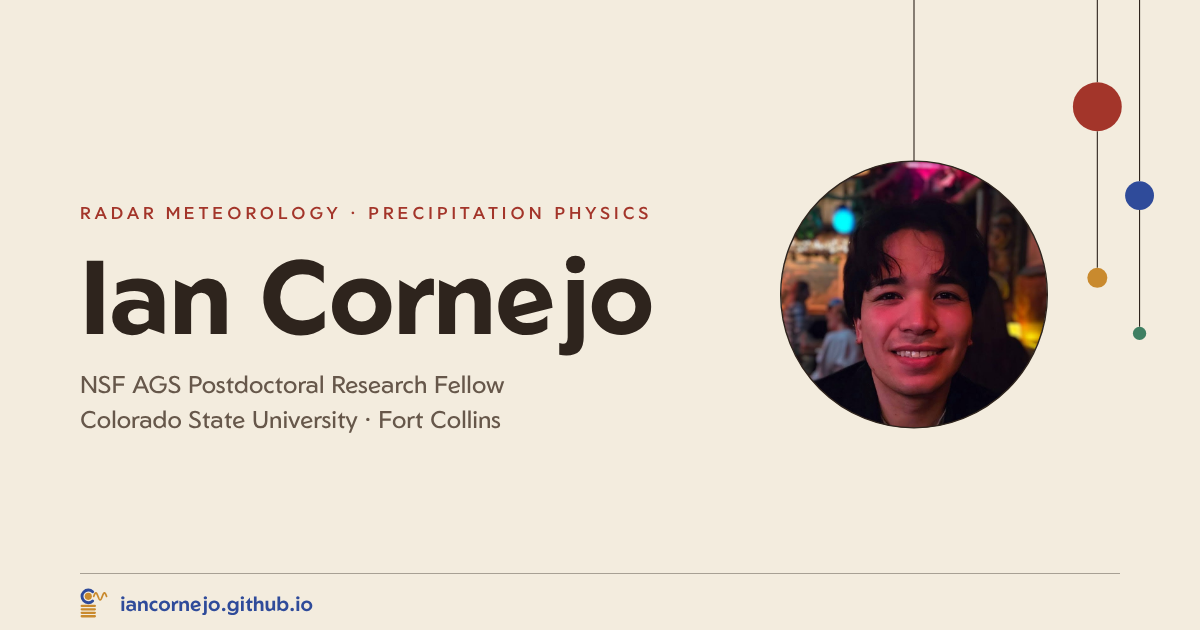
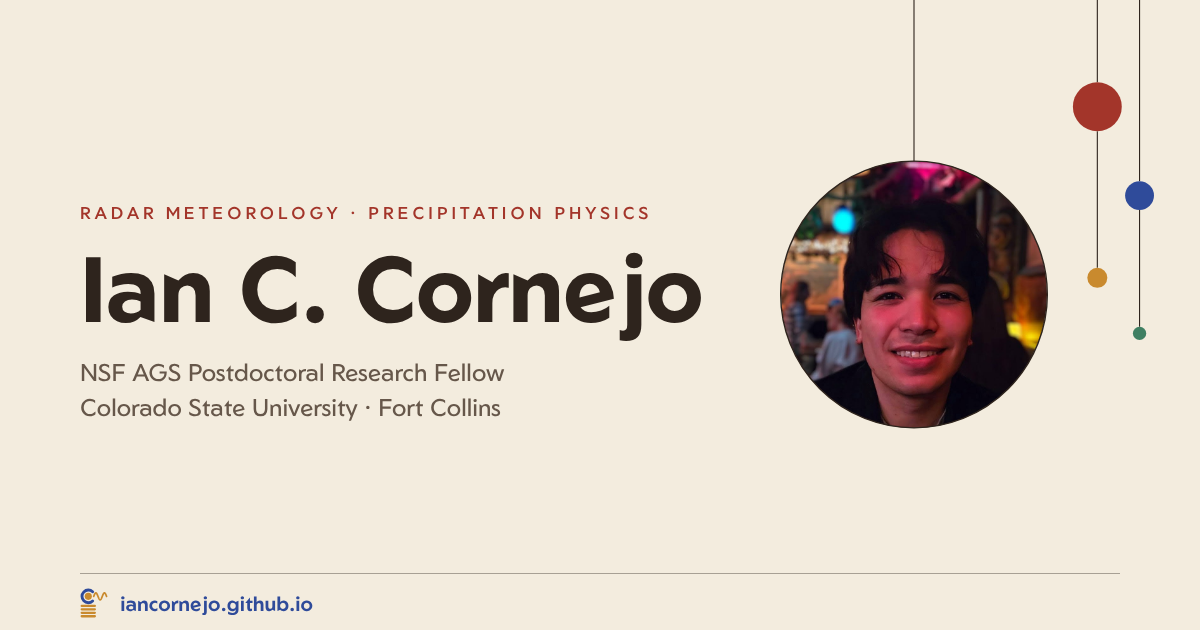
Use "Ian C. Cornejo" throughout; link the thesis and dissertation
- One name everywhere (header, hero, titles, footer, alt text, social
  image): drop profile.short_name and use profile.name
- Dissertation and MS thesis linked (PDFs on the UW AOS journal site):
  new section on the Publications page, linked titles in the CV (HTML
  and PDF) and in the About text
- QJRMS 2026: the short plain-language summary instead of the abstract
- CV: INCUS meeting in Fort Collins; Colloquium Committee 2025-2026

Claude-Session: https://claude.ai/code/session_01Muc7Tp245T4khVbRrN7Aet

Changed region(s): [[0.0617, 0.3921, 0.5858, 0.573], [0.0617, 0.573, 0.4317, 0.6937]]

diff --git a/src/lib/content.ts b/src/lib/content.ts
@@ -16,7 +16,6 @@ const link = z.object({ label: text, url: z.url() });
 
 const Profile = z.object({
   name: text,
-  short_name: text,
   eyebrow: text,
   position: text,
   institution: text,
@@ -101,7 +100,12 @@ const DataCode = z.object({
 
 const CV = z.object({
   education: z.array(
-    z.object({ degree: text, institution: text, year: z.number().int(), thesis: z.string().optional() }),
+    z.object({
+      degree: text,
+      institution: text,
+      year: z.number().int(),
+      thesis: z.object({ kind: text, title: text, url: z.url().optional() }).optional(),
+    }),
   ),
   appointments: z.array(z.object({ title: text, institution: text, dates: z.coerce.string() })),
   funding: z.array(

diff --git a/src/data/about.md b/src/data/about.md
@@ -4,6 +4,6 @@ A lot of that runs through drop size distributions (DSDs). I'm interested in how
 
 I'm predominantly an observationalist. I like working hands-on with instruments, mostly disdrometers and radars, both scanning and vertically pointing, and I've helped collect data on field campaigns including Pre-CIP 2021 in Colorado and PRECIP 2022 in Taiwan and southern Japan.
 
-I earned my PhD (2026) and MS (2023) in Atmospheric and Oceanic Sciences at the University of Wisconsin–Madison. My dissertation, *Echoes of Extreme Rainfall: Radar Perspectives of Multiscale Precipitation Controls*, followed extreme rainfall in Taiwan from radar rain estimation in steep terrain to the microphysical and mesoscale processes behind it, and it left me with a lasting fascination with Mei-Yu fronts and Taiwan's mountains. Before that, I earned BS degrees in Atmospheric Sciences and Engineering Physics at the University of Illinois Urbana-Champaign.
+I earned my PhD (2026) and MS (2023) in Atmospheric and Oceanic Sciences at the University of Wisconsin–Madison. My dissertation, [*Echoes of Extreme Rainfall: Radar Perspectives of Multiscale Precipitation Controls*](https://aos.wisc.edu/aosjournal/Volume48/Cornejo_PhD.pdf), followed extreme rainfall in Taiwan from radar rain estimation in steep terrain to the microphysical and mesoscale processes behind it, and it left me with a lasting fascination with Mei-Yu fronts and Taiwan's mountains. Before that, I earned BS degrees in Atmospheric Sciences and Engineering Physics at the University of Illinois Urbana-Champaign.
 
 Outside of core research, I enjoy building open-source software and algorithms that help the field move itself forward. [EccoPy](/data-code/) is one example, and [precip.science](https://precip.science) is where I'm putting experimental real-time radar products.

diff --git a/README.md b/README.md
@@ -1,6 +1,6 @@
 # iancornejo.github.io
 
-Ian Cornejo's personal site, built with [Astro](https://astro.build) and deployed to GitHub Pages on every push to `main`.
+Ian C. Cornejo's personal site, built with [Astro](https://astro.build) and deployed to GitHub Pages on every push to `main`.
 
 ## Design
 
